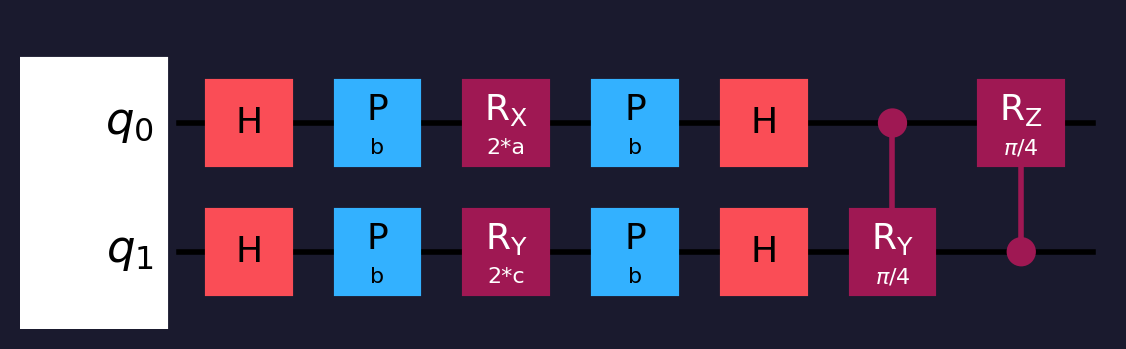
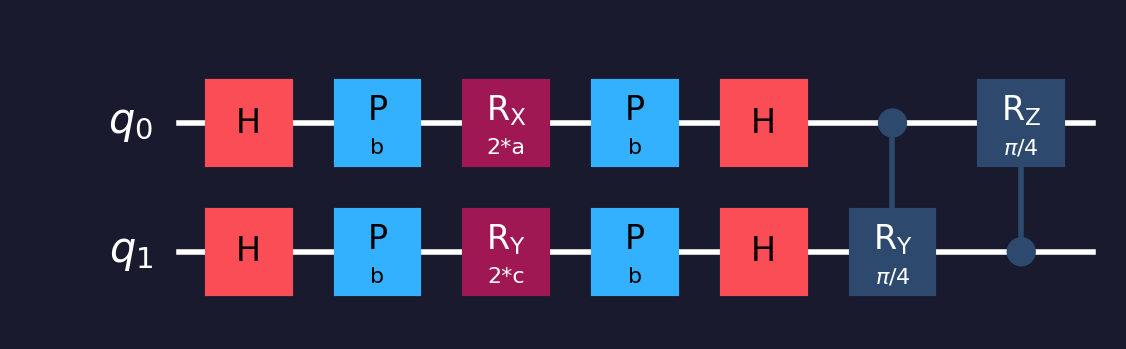
Fix gate boxes to use dark backgrounds
- Figure 1: Custom Qiskit dark style with dark blue gate backgrounds
- Figure 2: Dark yellow A-Gate boxes with gold text, dark blue H gate
- No more light/white backgrounds on any elements

diff --git a/QA1/generate_figures.py b/QA1/generate_figures.py
@@ -53,8 +53,18 @@ def generate_agate_circuit_diagram():
         qc.cry(np.pi / 4, 0, 1)
         qc.crz(np.pi / 4, 1, 0)
 
-        # Draw circuit
-        fig = qc.draw(output='mpl', style='iqp', fold=-1)
+        # Draw circuit with dark theme
+        dark_style = {
+            'backgroundcolor': DARK_BG,
+            'textcolor': '#ffffff',
+            'linecolor': '#ffffff',
+            'creglinecolor': '#ffffff',
+            'gatetextcolor': '#ffffff',
+            'gatefacecolor': '#2d4a6e',
+            'barrierfacecolor': '#4a4a4a',
+            'fontsize': 12,
+        }
+        fig = qc.draw(output='mpl', style=dark_style, fold=-1)
         fig.savefig(FIGURES_DIR / 'agate_circuit.png', dpi=200, bbox_inches='tight',
                    facecolor=DARK_BG, edgecolor='none')
         plt.close(fig)
@@ -148,13 +158,13 @@ def generate_multichannel_diagram():
     ax.hlines([y_anc], 0, 13.5, colors='white', linewidth=0.8)
     ax.text(-0.3, y_anc, 'Anc', ha='right', va='center', fontsize=9, fontweight='bold')
 
-    # Gate styles
-    gate_box = dict(boxstyle='round,pad=0.15', facecolor='#E8F4FD', edgecolor='#2196F3', linewidth=1.5)
-    agate_box = dict(boxstyle='round,pad=0.25', facecolor='#FFF3E0', edgecolor='#FF9800', linewidth=2)
+    # Gate styles (dark theme)
+    gate_box = dict(boxstyle='round,pad=0.15', facecolor='#1e3a5f', edgecolor='#4a90d9', linewidth=1.5)
+    agate_box = dict(boxstyle='round,pad=0.25', facecolor='#4a3d00', edgecolor='#8a7a30', linewidth=1)
 
     # Section 1: A-Gate encoding for each channel
     for i, (y_e, y_i) in enumerate(y_positions):
-        ax.text(2, (y_e + y_i) / 2, 'A-Gate', ha='center', va='center', fontsize=10, bbox=agate_box)
+        ax.text(2, (y_e + y_i) / 2, 'A-Gate', ha='center', va='center', fontsize=10, color='#ffd700', bbox=agate_box)
         rect = plt.Rectangle((0.8, y_i - 0.15), 2.4, y_e - y_i + 0.3,
                              fill=False, edgecolor='#FF9800', linestyle='--', alpha=0.5)
         ax.add_patch(rect)
